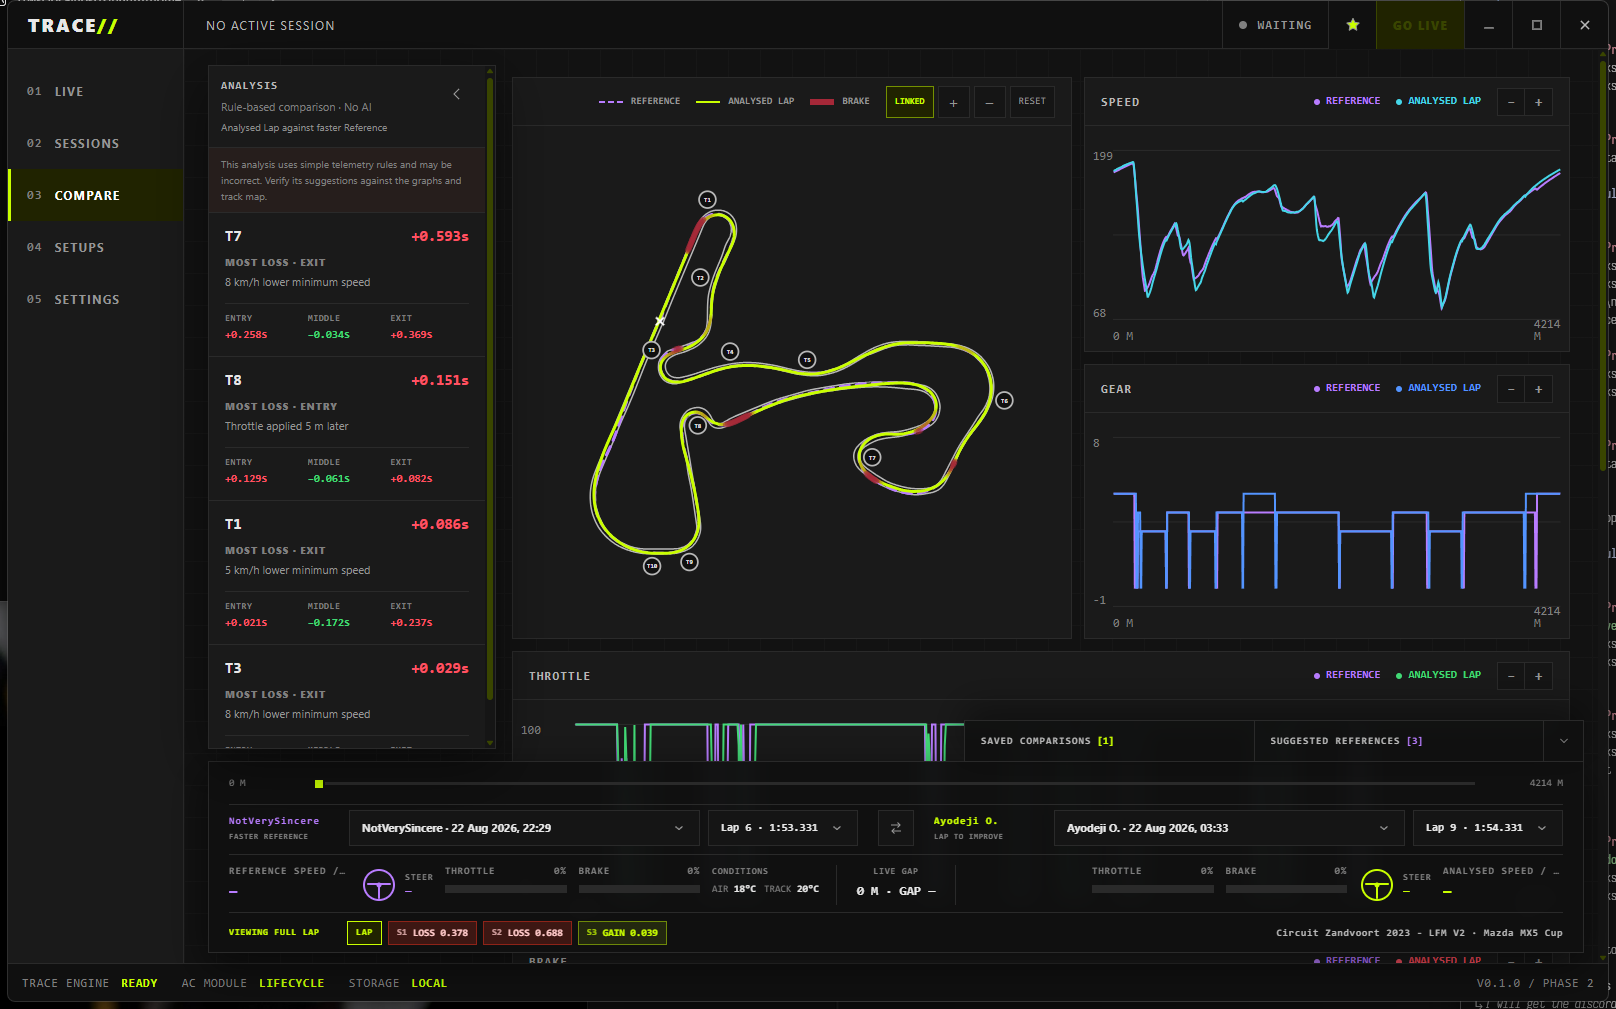
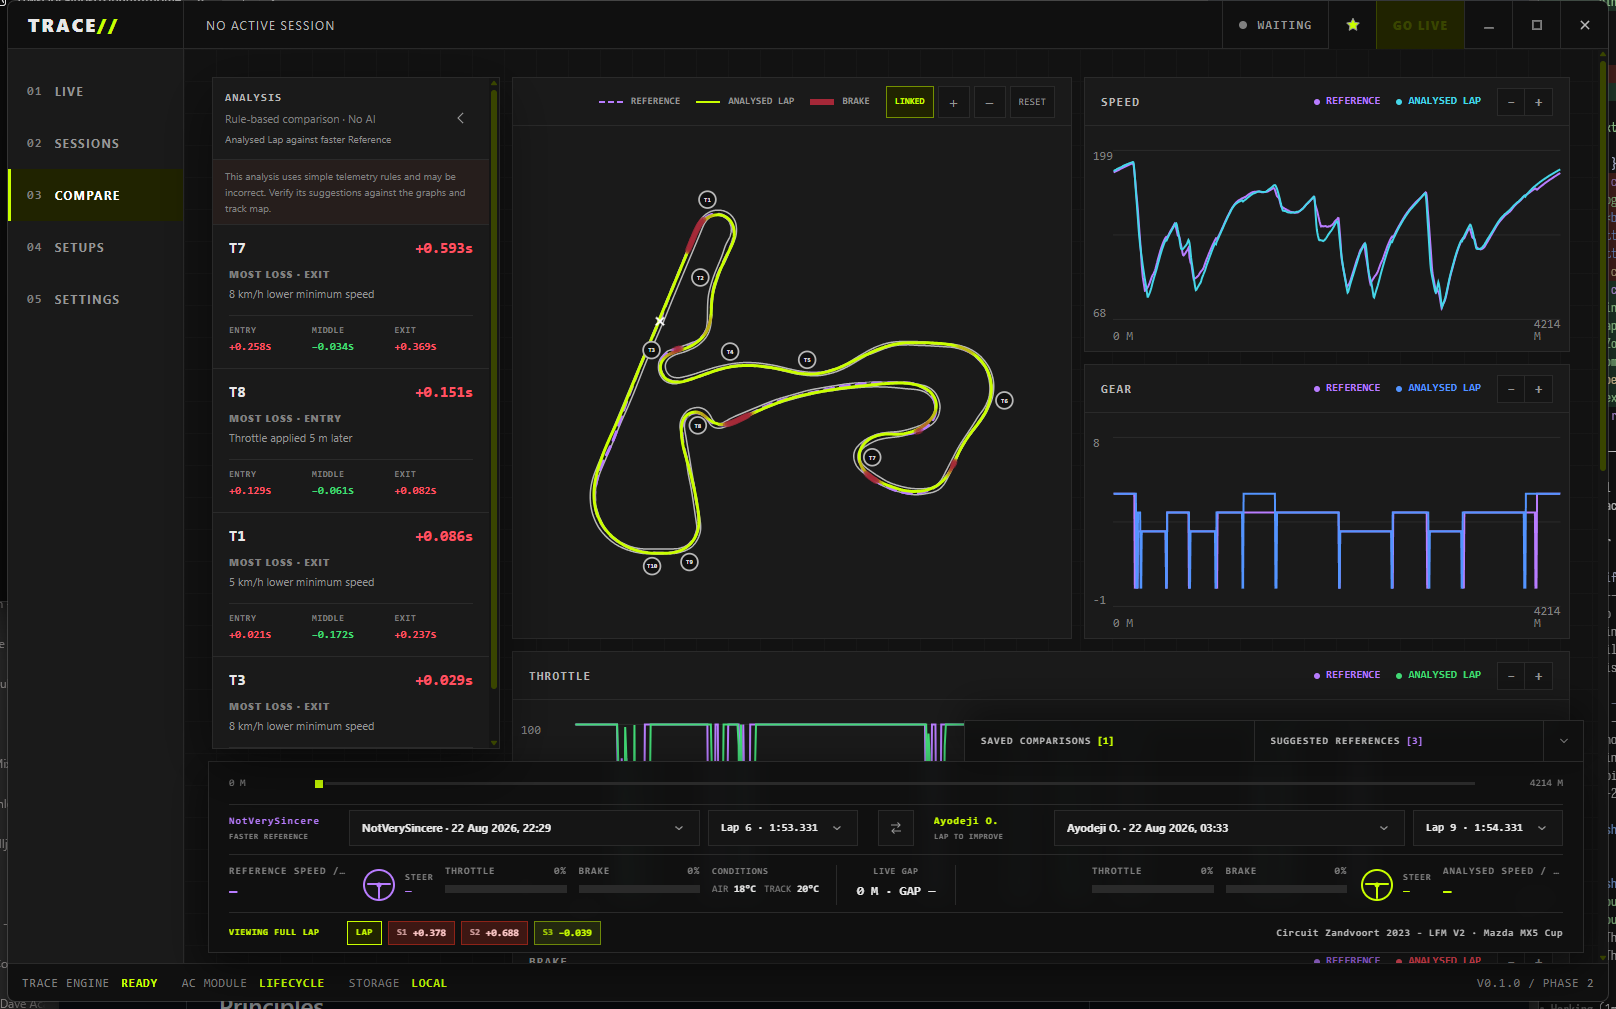
Polish comparison control alignment

diff --git a/apps/desktop/src/App.tsx b/apps/desktop/src/App.tsx
@@ -669,7 +669,7 @@ function SavedComparisonsDock({ savedComparisons, suggestions, sessions, default
             const current = saved.referenceSessionId === currentReferenceSessionId && saved.referenceLapIndex === currentReferenceLap && saved.analysedSessionId === currentAnalysedSessionId && saved.analysedLapIndex === currentAnalysedLap;
             return <article className={`relative w-full border bg-trace-surface ${current ? "border-trace-accent/70 outline outline-1 -outline-offset-1 outline-trace-accent/30" : "border-trace-divider hover:border-trace-soft"}`} key={saved.id}>
               <button type="button" onClick={() => { onOpen(saved); setDockCollapsed(true); }} className="block w-full text-left">
-              <div className="flex items-start justify-between gap-3 border-b border-trace-divider px-3 py-1.5 pr-12"><span className="min-w-0"><strong className="block truncate text-[13px] leading-4 text-trace-text">{saved.name}</strong><span className="mt-0.5 block truncate font-mono text-[10px] font-bold leading-4 text-trace-dim">{saved.track} · {saved.car}</span></span>{current && <span className="shrink-0 border border-trace-accent/40 bg-trace-accent-wash px-1.5 py-0.5 font-mono text-[9px] font-black text-trace-accent">CURRENT</span>}</div>
+              <div className="flex items-center justify-between gap-3 border-b border-trace-divider px-3 py-1.5 pr-12"><span className="min-w-0"><strong className="block truncate text-[13px] leading-4 text-trace-text">{saved.name}</strong><span className="mt-0.5 block truncate font-mono text-[10px] font-bold leading-4 text-trace-dim">{saved.track} · {saved.car}</span></span>{current && <span className="inline-flex h-5 shrink-0 items-center justify-center border border-trace-accent/40 bg-trace-accent-wash px-1.5 font-mono text-[9px] font-black leading-none text-trace-accent">CURRENT</span>}</div>
               <div className="grid grid-cols-[1fr_auto_1fr] items-stretch gap-2 px-3 py-1.5">
                 <SavedComparisonLap role="REFERENCE" driver={referenceDriver} lapIndex={saved.referenceLapIndex} durationNs={saved.referenceDurationNs} startedAt={saved.referenceStartedAt} accent="text-trace-purple" />
                 <span className="self-center font-mono text-[9px] font-black text-trace-dim">VS</span>
@@ -677,7 +677,7 @@ function SavedComparisonsDock({ savedComparisons, suggestions, sessions, default
               </div>
               <div className="border-t border-trace-divider px-3 py-1 font-mono text-[9px] font-bold leading-4 text-trace-dim">SAVED {formatCompactSessionDate(saved.createdAt)}</div>
               </button>
-              <div className="absolute right-2 top-2 z-10"><button type="button" onClick={() => setMenuId((value) => value === saved.id ? null : saved.id)} className="grid size-7 place-items-center border border-transparent font-mono text-base leading-none text-trace-dim hover:border-trace-divider hover:bg-trace-deep hover:text-trace-text" aria-label={`Actions for ${saved.name}`} aria-expanded={menuId === saved.id}>•••</button>{menuId === saved.id && <div className="absolute right-0 top-8 w-28 border border-trace-divider bg-trace-black p-1 shadow-[0_10px_25px_rgba(0,0,0,.55)]"><button type="button" onClick={() => { setRenameId(saved.id); setRenameDraft(saved.name); setMenuId(null); }} className="block w-full px-2 py-2 text-left font-mono text-[9px] font-bold text-trace-muted hover:bg-trace-deep hover:text-trace-text">RENAME</button><button type="button" onClick={() => { setMenuId(null); void onDelete(saved.id); }} className="block w-full px-2 py-2 text-left font-mono text-[9px] font-bold text-[#ff5263] hover:bg-trace-danger/20">DELETE</button></div>}</div>
+              <div className="absolute right-1.5 top-1.5 z-10"><button type="button" onClick={() => setMenuId((value) => value === saved.id ? null : saved.id)} className="grid size-8 place-items-center border border-transparent text-trace-dim hover:border-trace-divider hover:bg-trace-deep hover:text-trace-text" aria-label={`Actions for ${saved.name}`} aria-expanded={menuId === saved.id}><svg className="h-1 w-3.5 fill-current" viewBox="0 0 14 2" aria-hidden="true"><circle cx="1" cy="1" r="1" /><circle cx="7" cy="1" r="1" /><circle cx="13" cy="1" r="1" /></svg></button>{menuId === saved.id && <div className="absolute right-0 top-9 w-28 border border-trace-divider bg-trace-black p-1 shadow-[0_10px_25px_rgba(0,0,0,.55)]"><button type="button" onClick={() => { setRenameId(saved.id); setRenameDraft(saved.name); setMenuId(null); }} className="block w-full px-2 py-2 text-left font-mono text-[9px] font-bold text-trace-muted hover:bg-trace-deep hover:text-trace-text">RENAME</button><button type="button" onClick={() => { setMenuId(null); void onDelete(saved.id); }} className="block w-full px-2 py-2 text-left font-mono text-[9px] font-bold text-[#ff5263] hover:bg-trace-danger/20">DELETE</button></div>}</div>
               {renameId === saved.id && <form onSubmit={async (event) => { event.preventDefault(); if (!renameDraft.trim()) return; setRenaming(true); const renamed = await onRename(saved.id, renameDraft); setRenaming(false); if (renamed) setRenameId(null); }} className="flex items-end gap-2 border-t border-trace-divider bg-trace-deep p-2" onClick={(event) => event.stopPropagation()}><label className="min-w-0 flex-1 font-mono text-[8px] font-bold text-trace-dim" htmlFor={`rename-${saved.id}`}>NEW NAME<input id={`rename-${saved.id}`} value={renameDraft} onChange={(event) => setRenameDraft(event.target.value)} maxLength={80} autoFocus className="mt-1 h-8 w-full border border-trace-divider bg-trace-black px-2 font-sans text-[11px] font-normal text-trace-text outline-none focus:border-trace-accent" /></label><button type="button" onClick={() => setRenameId(null)} className="h-8 px-2 font-mono text-[9px] font-bold text-trace-dim hover:text-trace-text">CANCEL</button><button type="submit" disabled={renaming || !renameDraft.trim()} className="h-8 bg-trace-accent px-3 font-mono text-[9px] font-black text-trace-black disabled:opacity-40">{renaming ? "…" : "SAVE"}</button></form>}
             </article>;
           })}
@@ -704,8 +704,8 @@ function CornerAnalysisPanel({ corners, selectedCornerIndex, comparisonIsFaster,
     .sort((left, right) => (right.totalLossSeconds ?? 0) - (left.totalLossSeconds ?? 0))
     .slice(0, 4);
   return (
-    <section className={`fixed bottom-[252px] left-[200px] top-16 z-50 overflow-y-auto border border-trace-divider bg-trace-surface shadow-[0_18px_55px_rgba(0,0,0,.45)] transition-[width] ${collapsed ? "w-11" : "w-72"}`} aria-label="Rule-based lap analysis">
-      <div className={`flex border-b border-trace-divider ${collapsed ? "h-11 items-center justify-center" : "min-h-16 items-start justify-between gap-3 p-3"}`}>
+    <section className={`fixed bottom-[252px] left-[204px] top-[76px] z-50 overflow-y-auto border border-trace-divider bg-trace-surface shadow-[0_18px_55px_rgba(0,0,0,.45)] transition-[width] ${collapsed ? "w-11" : "w-72"}`} aria-label="Rule-based lap analysis">
+      <div className={`flex border-b border-trace-divider ${collapsed ? "h-11 items-center justify-center" : "min-h-16 items-center justify-between gap-3 p-3"}`}>
         {!collapsed && <div className="min-w-0"><strong className="block font-mono text-[11px] tracking-[.1em] text-trace-soft">ANALYSIS</strong><span className="mt-1 block text-[11px] leading-4 text-trace-dim">Rule-based comparison · No AI</span><span className="mt-1 block text-[10px] leading-4 text-trace-faint">{comparisonIsFaster ? "Analysed Lap is faster than Reference" : "Analysed Lap against faster Reference"}</span></div>}
         <button type="button" onClick={() => onCollapsed(!collapsed)} className="grid size-8 shrink-0 place-items-center text-trace-muted hover:bg-trace-deep hover:text-trace-text" aria-label={collapsed ? "Show analysis" : "Hide analysis"} aria-expanded={!collapsed}>
           <svg className={`size-4 fill-none stroke-current transition-transform ${collapsed ? "" : "rotate-180"}`} viewBox="0 0 16 16" aria-hidden="true"><path d="m6 3 5 5-5 5" /></svg>
@@ -967,7 +967,7 @@ function ComparisonSectorStrip({ sectors, value, onChange, trackCarLabel }: { se
           <Tooltip content={explanation} key={sector.index}>
             <button type="button" onClick={() => onChange(sector.index)} className={`flex shrink-0 items-center gap-1.5 border px-2 text-[10px] font-bold tabular-nums ${tone} ${selected}`} aria-pressed={value === sector.index}>
               <span className="text-[9px] opacity-75">S{sector.index}</span>
-              <strong>{sector.seconds == null ? "—" : Math.abs(sector.seconds) < 0.0005 ? "EVEN" : `${sector.seconds > 0 ? "LOSS" : "GAIN"} ${Math.abs(sector.seconds).toFixed(3)}`}</strong>
+              <strong>{sector.seconds == null ? "—" : Math.abs(sector.seconds) < 0.0005 ? "0.000" : `${sector.seconds > 0 ? "+" : "−"}${Math.abs(sector.seconds).toFixed(3)}`}</strong>
             </button>
           </Tooltip>
         );
@@ -1241,7 +1241,7 @@ function TrackMap({ samples, cursorIndex, comparison = false, comparisonIsFaster
       spatialZoomAt.current(direction, [width / 2, height / 2]);
     }
   };
-  const mapControls = <div className="flex items-center gap-1">{onRangeZoom && onRangeZoomLinked && <button type="button" onClick={() => onRangeZoomLinked(!rangeZoomLinked)} className={`h-8 border px-2 font-mono text-[9px] font-bold ${rangeZoomLinked ? "border-trace-accent/50 bg-trace-accent-wash text-trace-accent" : "border-trace-divider bg-trace-deep text-trace-muted hover:text-trace-text"}`} aria-label={rangeZoomLinked ? "Unlink map zoom from telemetry graphs" : "Link map zoom to telemetry graphs"}>{rangeZoomLinked ? "LINKED" : "MAP"}</button>}<button type="button" onClick={() => adjustMapZoom("in")} className="grid size-8 place-items-center border border-trace-divider bg-trace-deep text-base text-trace-muted hover:text-trace-text" aria-label={rangeZoomLinked ? "Zoom all telemetry in" : "Zoom map in"}>+</button><button type="button" onClick={() => adjustMapZoom("out")} className="grid size-8 place-items-center border border-trace-divider bg-trace-deep text-base text-trace-muted hover:text-trace-text" aria-label={rangeZoomLinked ? "Zoom all telemetry out" : "Zoom map out"}>−</button><button type="button" onClick={resetView} className="h-8 border border-trace-divider bg-trace-deep px-2 font-mono text-[10px] text-trace-muted hover:text-trace-text" aria-label="Reset map pan and spatial zoom">RESET</button>{onDismiss && <button type="button" onClick={onDismiss} className="grid size-8 place-items-center border border-trace-divider bg-trace-deep text-lg leading-none text-trace-muted hover:border-trace-accent/50 hover:text-trace-text" aria-label="Dismiss floating track map">×</button>}</div>;
+  const mapControls = <div className="flex items-center gap-1">{onRangeZoom && onRangeZoomLinked && <button type="button" onClick={() => onRangeZoomLinked(!rangeZoomLinked)} className={`inline-flex h-8 items-center justify-center border px-2 font-mono text-[9px] font-bold leading-none ${rangeZoomLinked ? "border-trace-accent/50 bg-trace-accent-wash text-trace-accent" : "border-trace-divider bg-trace-deep text-trace-muted hover:text-trace-text"}`} aria-label={rangeZoomLinked ? "Unlink map zoom from telemetry graphs" : "Link map zoom to telemetry graphs"}>{rangeZoomLinked ? "LINKED" : "MAP"}</button>}<button type="button" onClick={() => adjustMapZoom("in")} className="grid size-8 place-items-center border border-trace-divider bg-trace-deep text-base text-trace-muted hover:text-trace-text" aria-label={rangeZoomLinked ? "Zoom all telemetry in" : "Zoom map in"}>+</button><button type="button" onClick={() => adjustMapZoom("out")} className="grid size-8 place-items-center border border-trace-divider bg-trace-deep text-base text-trace-muted hover:text-trace-text" aria-label={rangeZoomLinked ? "Zoom all telemetry out" : "Zoom map out"}>−</button><button type="button" onClick={resetView} className="inline-flex h-8 items-center justify-center border border-trace-divider bg-trace-deep px-2 font-mono text-[10px] leading-none text-trace-muted hover:text-trace-text" aria-label="Reset map pan and spatial zoom">RESET</button>{onDismiss && <button type="button" onClick={onDismiss} className="grid size-8 place-items-center border border-trace-divider bg-trace-deep text-lg leading-none text-trace-muted hover:border-trace-accent/50 hover:text-trace-text" aria-label="Dismiss floating track map">×</button>}</div>;
   return (
     <div ref={mapViewport} className="overscroll-contain border border-trace-divider bg-trace-surface">
       {onDismiss
